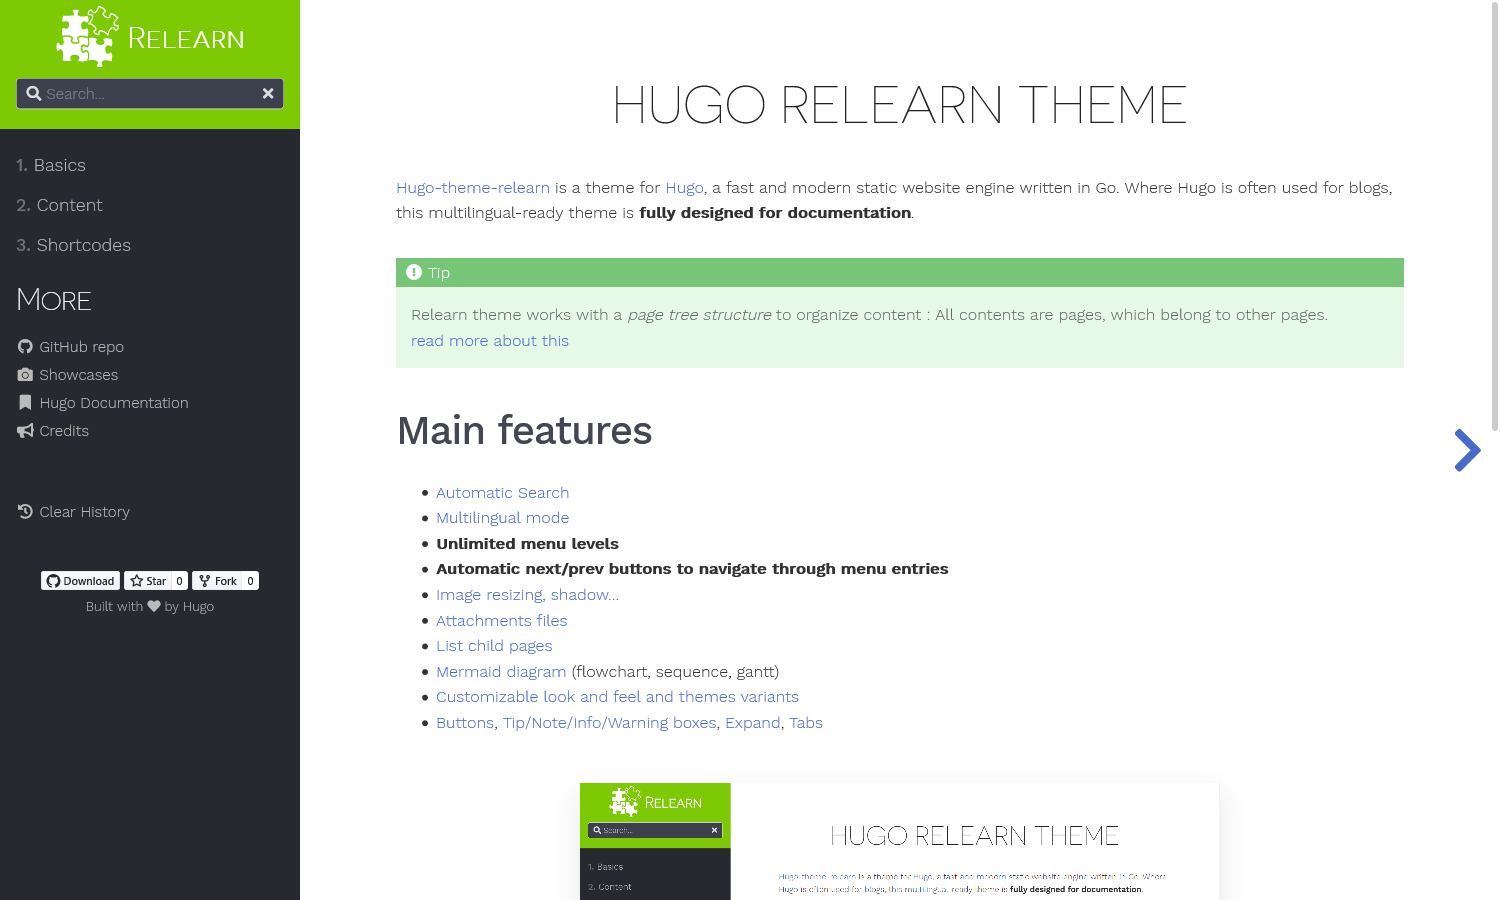
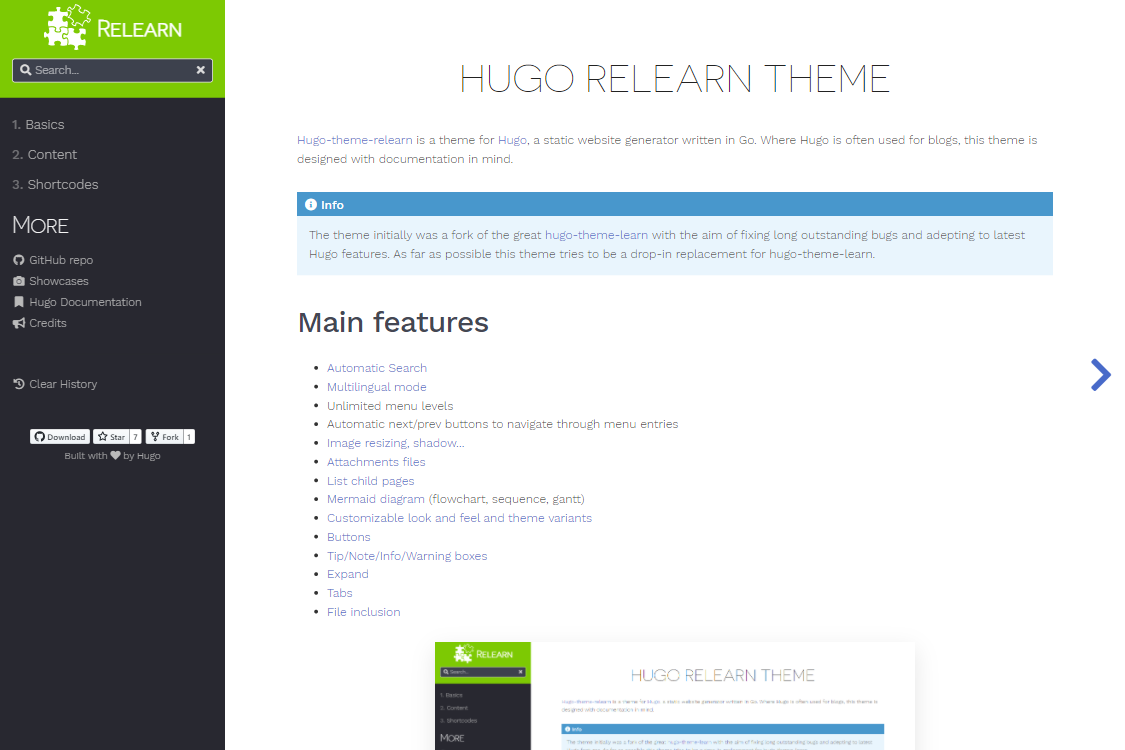
docs: elaborate on fork decision #26

diff --git a/exampleSite/content/_index.en.md b/exampleSite/content/_index.en.md
@@ -4,38 +4,43 @@ title = "Relearn Theme for Hugo"
 
 # Hugo Relearn Theme
 
-[Hugo-theme-relearn](http://github.com/McShelby/hugo-theme-relearn) is a theme for [Hugo](https://gohugo.io/), a fast and modern static website engine written in Go. Where Hugo is often used for blogs, this multilingual-ready theme is **fully designed for documentation**.
+[Hugo-theme-relearn](http://github.com/McShelby/hugo-theme-relearn) is a theme for [Hugo](https://gohugo.io/), a static website generator written in Go. Where Hugo is often used for blogs, this theme is designed with documentation in mind.
 
-{{% notice tip %}}Relearn theme works with a _page tree structure_ to organize content : All contents are pages, which belong to other pages. [read more about this]({{%relref "cont/pages/_index.md"%}})
+{{% notice info %}}
+The theme initially was a fork of the great [hugo-theme-learn](https://github.com/matcornic/hugo-theme-learn) with the aim of fixing long outstanding bugs and adepting to latest Hugo features. As far as possible this theme tries to be a drop-in replacement for hugo-theme-learn.
 {{% /notice %}}
 
 ## Main features
 
 * [Automatic Search]({{%relref "basics/configuration/_index.md#activate-search" %}})
 * [Multilingual mode]({{%relref "cont/i18n/_index.md" %}})
-* **Unlimited menu levels**
-* **Automatic next/prev buttons to navigate through menu entries**
+* Unlimited menu levels
+* Automatic next/prev buttons to navigate through menu entries
 * [Image resizing, shadow...]({{%relref "cont/markdown.en.md#images" %}})
 * [Attachments files]({{%relref "shortcodes/attachments.en.md" %}})
 * [List child pages]({{%relref "shortcodes/children/_index.md" %}})
 * [Mermaid diagram]({{%relref "shortcodes/mermaid.en.md" %}}) (flowchart, sequence, gantt)
-* [Customizable look and feel and themes variants]({{%relref "basics/customization/_index.md"%}})
-* [Buttons]({{%relref "shortcodes/button.en.md" %}}), [Tip/Note/Info/Warning boxes]({{%relref "shortcodes/notice.en.md" %}}), [Expand]({{%relref "shortcodes/expand.en.md" %}}), [Tabs]({{%relref "shortcodes/tabs.en.md" %}})
+* [Customizable look and feel and theme variants]({{%relref "basics/customization/_index.md"%}})
+* [Buttons]({{%relref "shortcodes/button.en.md" %}})
+* [Tip/Note/Info/Warning boxes]({{%relref "shortcodes/notice.en.md" %}})
+* [Expand]({{%relref "shortcodes/expand.en.md" %}})
+* [Tabs]({{%relref "shortcodes/tabs.en.md" %}})
+* [File inclusion]({{%relref "shortcodes/include.en.md" %}})
 
 ![Screenshot](https://github.com/McShelby/hugo-theme-relearn/raw/main/images/screenshot.png?width=40pc&classes=shadow)
 
 ## Contribute to this documentation
 
-Feel free to update this content, just click the **Edit this page** link displayed on top right of each page, and pullrequest it
+Feel free to update this content, just click the **Edit this page** link displayed on top right of each page, and pullrequest it.
 
-{{% notice info %}}
+{{% notice note %}}
 Your modification will be deployed automatically when merged.
 {{% /notice %}}
 
 ## Documentation website
 
-This current documentation has been statically generated with Hugo with a simple command : `hugo -t hugo-theme-relearn` -- source code is [available here at GitHub](https://github.com/McShelby/hugo-theme-relearn)
+This current documentation has been statically generated with Hugo with a simple command : `hugo -t hugo-theme-relearn`. The source code is [available on GitHub](https://github.com/McShelby/hugo-theme-relearn).
 
-{{% notice note %}}
+{{% notice info %}}
 Automatically published and hosted thanks to [Netlify](https://www.netlify.com/). Read more about [Automated HUGO deployments with Netlify](https://www.netlify.com/blog/2015/07/30/hosting-hugo-on-netlifyinsanely-fast-deploys/)
 {{% /notice %}}

diff --git a/README.md b/README.md
@@ -1,14 +1,12 @@
 # Hugo Relearn Theme
 
-A documentation theme for [Hugo](https://gohugo.io/).
+A theme for [Hugo](https://gohugo.io/) designed for documentation.
 
 ![Overview](https://github.com/McShelby/hugo-theme-relearn/raw/main/images/screenshot.png)
 
 ## Motivation
 
-The theme initially was a fork of [hugo-theme-learn](https://github.com/matcornic/hugo-theme-learn) with the aim of fixing long outstanding bugs and adepting to latest Hugo features.
-
-As far as possible the theme tries to be a drop-in replacement for hugo-theme-learn. The documentation provides instructions on how to achieve the best compatiblity while still benefitting from bug fixes and new features.
+The theme initially was a fork of the great[hugo-theme-learn](https://github.com/matcornic/hugo-theme-learn) with the aim of fixing long outstanding bugs and adepting to latest Hugo features. As far as possible this theme tries to be a drop-in replacement for hugo-theme-learn.
 
 ## Main features
 
@@ -20,8 +18,12 @@ As far as possible the theme tries to be a drop-in replacement for hugo-theme-le
 - Attachments files
 - List child pages
 - Mermaid diagram (flowchart, sequence, gantt)
-- Customizable look and feel and themes variants
-- Buttons, Tip/Note/Info/Warning boxes, Expand, Tabs
+- Customizable look and feel and theme variants
+- Buttons
+- Tip/Note/Info/Warning boxes
+- Expand
+- Tabs
+- File inclusion
 
 ## Installation
 
